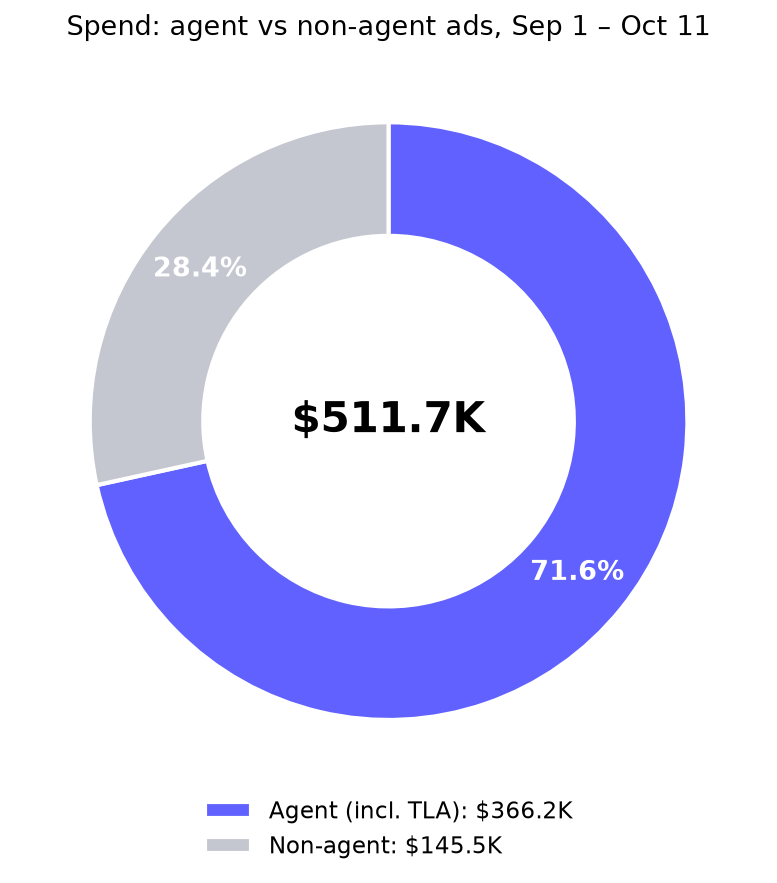
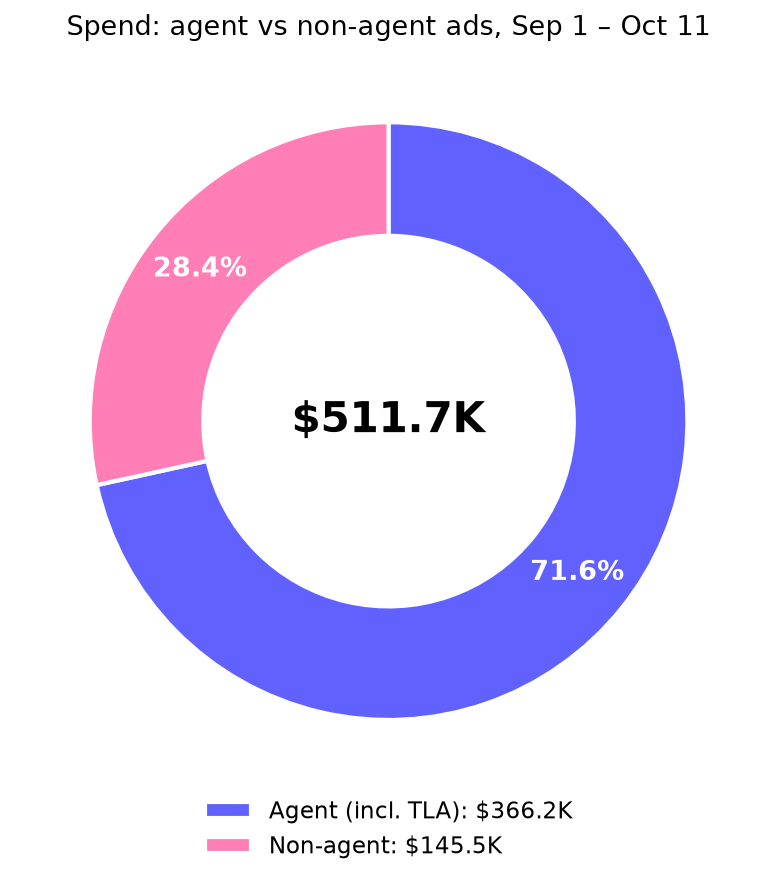
Creative analysis: non-agent % + brighter colors (Miri)

Changed region(s): [[0.0927, 0.1223, 0.5251, 0.5504], [0.2471, 0.9479, 0.3398, 0.9785]]

diff --git a/creative-analysis/index.html b/creative-analysis/index.html
@@ -33,7 +33,7 @@ img.chart{max-width:100%}.dim{color:#676879;font-size:12px}.note{background:#f5f
 <h3>Same ad set, same audience: GIF vs static</h3><table><tr><th></th><th>Spend</th><th>Hard SU</th><th>CPS</th><th>QE</th><th>CPQE</th><th>CPM</th></tr><tr><td>us-seniority-lp-banner-skills_lan · Static</td><td>$45,267</td><td>256</td><td>$177</td><td>33</td><td>$1,372</td><td>$1.99</td></tr><tr><td>us-seniority-lp-banner-skills_lan · GIF</td><td>$18,969</td><td>127</td><td>$149</td><td>6</td><td>$3,162</td><td>$2.13</td></tr><tr><td>gb-job_function-lp-banner-mop_lan · Static</td><td>$8,558</td><td>21</td><td>$408</td><td>3</td><td>$2,853</td><td>$6.37</td></tr><tr><td>gb-job_function-lp-banner-mop_lan · GIF</td><td>$5,782</td><td>19</td><td>$304</td><td>3</td><td>$1,927</td><td>$6.36</td></tr><tr><td>us-job_function-lp-banner-mop_lan · Static</td><td>$8,204</td><td>6</td><td>$1,367</td><td>1</td><td>$8,204</td><td>$10.75</td></tr><tr><td>us-job_function-lp-banner-mop_lan · GIF</td><td>$2,790</td><td>1</td><td>$2,790</td><td>0</td><td>–</td><td>$10.91</td></tr><tr><td>us-seniority-lp-banner-skills · Static</td><td>$8,934</td><td>2</td><td>$4,467</td><td>1</td><td>$8,934</td><td>$26.05</td></tr><tr><td>us-seniority-lp-banner-skills · GIF</td><td>$2,845</td><td>1</td><td>$2,845</td><td>0</td><td>–</td><td>$26.39</td></tr></table></div>
 <div class="slide"><h2>Agent vs non-agent</h2><div class="sub">Agent = "agent" in the ad name, plus all TLA ads (all TLA posts are agent posts)</div>
 <div class="two"><img class="chart" src="pie_agent.png"><div><table><tr><th></th><th>Spend</th><th>Hard SU</th><th>CPS</th><th>QE</th><th>CPQE</th><th>CPM</th></tr><tr><td>Agent (incl. TLA)</td><td>$366,173</td><td>1,232</td><td>$297</td><td>97</td><td>$3,775</td><td>$4.13</td></tr><tr><td>Non-agent</td><td>$145,496</td><td>751</td><td>$194</td><td>45</td><td>$3,233</td><td>$2.65</td></tr></table></div></div>
-<h3>Week over week</h3><img class="chart" src="wow_agent.png"><table><tr><th>Week</th><th>Agent</th><th>Non-agent</th><th>Agent share</th></tr><tr><td>Sep 1–Sep 6 (6 days)</td><td>$49,195</td><td>$13,921</td><td>78%</td></tr><tr><td>Sep 7–Sep 13</td><td>$69,213</td><td>$17,556</td><td>80%</td></tr><tr><td>Sep 14–Sep 20</td><td>$82,725</td><td>$26,581</td><td>76%</td></tr><tr><td>Sep 21–Sep 27</td><td>$77,089</td><td>$29,724</td><td>72%</td></tr><tr><td>Sep 28–Oct 4</td><td>$43,743</td><td>$28,836</td><td>60%</td></tr><tr><td>Oct 5–Oct 11</td><td>$44,208</td><td>$28,879</td><td>60%</td></tr></table></div>
+<h3>Week over week</h3><img class="chart" src="wow_agent.png"><table><tr><th>Week</th><th>Agent</th><th>Non-agent</th><th>Agent share</th><th>Non-agent share</th></tr><tr><td>Sep 1–Sep 6 (6 days)</td><td>$49,195</td><td>$13,921</td><td>78%</td><td>22%</td></tr><tr><td>Sep 7–Sep 13</td><td>$69,213</td><td>$17,556</td><td>80%</td><td>20%</td></tr><tr><td>Sep 14–Sep 20</td><td>$82,725</td><td>$26,581</td><td>76%</td><td>24%</td></tr><tr><td>Sep 21–Sep 27</td><td>$77,089</td><td>$29,724</td><td>72%</td><td>28%</td></tr><tr><td>Sep 28–Oct 4</td><td>$43,743</td><td>$28,836</td><td>60%</td><td>40%</td></tr><tr><td>Oct 5–Oct 11</td><td>$44,208</td><td>$28,879</td><td>60%</td><td>40%</td></tr></table></div>
 <div class="slide"><h2>Top static ads</h2><div class="sub">Grouped by ad name across ad sets · min $2K spend · ranked by CPS · TLA excluded</div><div class="ads"><div class="ad"><div class="fn">agent_workagent_builder_deadline_light_static</div><img src="media/agent_workagent_builder_deadline_light_static.jpg" loading="lazy">
 <div class="kpi"><span>CPS <b>$127</b></span><span>Hard SU <b>18</b></span><span>Spend <b>$2,291</b></span><span>CPQE <b>–</b></span><span>CPM <b>$2.60</b></span></div>
 <div class="dim">5 ads · gb-job_function-lp-banner-mop_lan, us-seniority-lp-banner-skills, us-seniority-lp-banner-skills_lan, us-seniority-lp-banner-tla_audience</div></div><div class="ad"><div class="fn">agent_aimarketing_campaign-planning_brief_dark_static</div><img src="media/agent_aimarketing_campaign-planning_brief_dark_static.jpg" loading="lazy">
